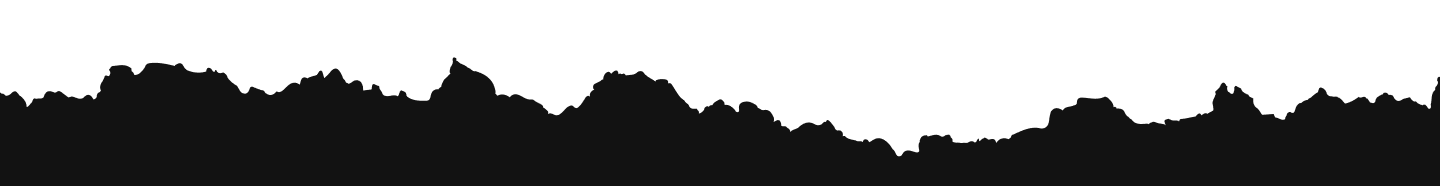
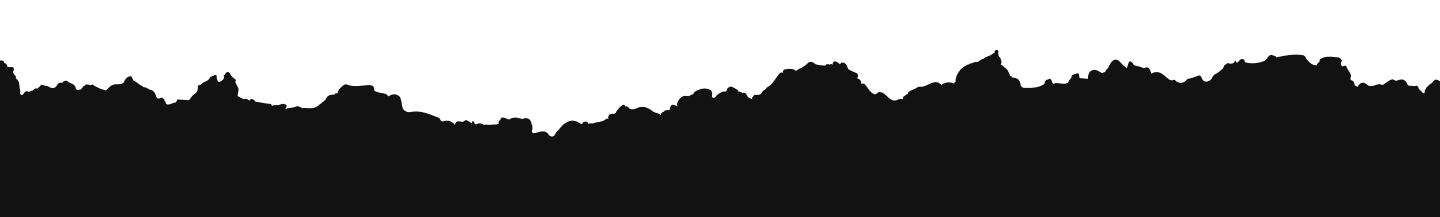
add HeroSectionPromotion

Changed region(s): [[0.0, 0.2419, 1.0, 0.8333]]

diff --git a/src/components/HeroSectionPromotion.tsx b/src/components/HeroSectionPromotion.tsx
@@ -1,0 +1,192 @@
+"use client";
+
+import Image from "next/image";
+
+export default function HeroSectionPromotion() {
+  return (
+    <div className="relative w-full h-[600px] overflow-hidden">
+      <div className="absolute inset-0">
+        <Image
+          src="/images/hero2Bc.png"
+          alt="Background gradient"
+          width={1200}
+          height={600}
+          className="w-full h-full object-cover"
+          priority
+        />
+      </div>
+
+      <div className="absolute bottom-0 left-0 right-0">
+        <Image
+          src="/images/hero2people.png"
+          alt="People base"
+          width={1200}
+          height={400}
+          className="w-full h-[300px] sm:h-[350px] md:h-[400px] object-cover"
+        />
+      </div>
+
+      <div className="absolute bottom-0 left-0 right-0 flex justify-between items-end px-2 sm:px-4 md:px-8 lg:px-16">
+        <div className="flex-shrink-0 w-[140px] sm:w-auto">
+          <Image
+            src="/images/person2.png"
+            alt="Person 2"
+            width={300}
+            height={400}
+            className="w-full h-[200px] sm:h-[250px] md:h-[350px] lg:h-[400px] object-contain"
+          />
+        </div>
+        <div className="flex-shrink-0 w-[140px] sm:w-auto">
+          <Image
+            src="/images/person1.png"
+            alt="Person 1"
+            width={300}
+            height={400}
+            className="w-full h-[200px] sm:h-[250px] md:h-[350px] lg:h-[400px] object-contain"
+          />
+        </div>
+      </div>
+      {/* Mobile Content */}
+      <div className="absolute inset-0 flex items-start justify-center pt-32 z-10 px-2 md:hidden">
+        <div
+          className="text-center text-white flex items-center gap-2 w-full"
+          style={{ transform: "rotate(-3.7deg)" }}
+        >
+          <Image
+            src="/icons/twitch.png"
+            alt="Twitch"
+            width={60}
+            height={60}
+            className="w-[100px] h-[70px] object-contain flex-shrink-0"
+          />
+
+          <div
+            className="w-[1px] h-[50px]"
+            style={{ backgroundColor: "rgba(59, 59, 59, 1)" }}
+          ></div>
+
+          <div className="text-center flex-1 min-w-0">
+            <h2
+              className="font-light leading-[89%] mb-2"
+              style={{
+                fontFamily:
+                  '"Saira Condensed", var(--font-saira), ui-sans-serif, system-ui, -apple-system, "Segoe UI"',
+                fontWeight: "300",
+                fontSize: "32px",
+                letterSpacing: "0%",
+                textAlign: "center",
+              }}
+            >
+              HER HAFTA
+            </h2>
+            <h3
+              className="font-bold leading-[89%]"
+              style={{
+                fontFamily:
+                  '"Saira Condensed", var(--font-saira), ui-sans-serif, system-ui, -apple-system, "Segoe UI"',
+                fontWeight: "700",
+                fontSize: "32px",
+                letterSpacing: "0%",
+                textAlign: "center",
+                color: "rgba(240, 231, 77, 1)",
+              }}
+            >
+              CANLIDAYIZ!
+            </h3>
+            <p
+              className="font-bold leading-[104%] mt-4"
+              style={{
+                fontFamily:
+                  'var(--font-saira), ui-sans-serif, system-ui, -apple-system, "Segoe UI"',
+                fontWeight: "700",
+                fontSize: "10px",
+                letterSpacing: "1.5%",
+                textAlign: "left",
+              }}
+            >
+              Bizi Takip Edin!
+            </p>
+          </div>
+        </div>
+      </div>
+
+      {/* Web Content */}
+      <div className="absolute inset-0 flex items-start justify-center pt-16 z-10 hidden md:flex">
+        <div
+          className="text-center text-white flex items-center gap-4"
+          style={{ transform: "rotate(-3.7deg)" }}
+        >
+          <Image
+            src="/icons/twitch.png"
+            alt="Twitch"
+            width={60}
+            height={60}
+            className="w-[158px] h-[98px] object-contain"
+          />
+
+          <div
+            className="w-[1px] h-[80px]"
+            style={{ backgroundColor: "rgba(59, 59, 59, 1)" }}
+          ></div>
+
+          <div className="text-center">
+            <h2
+              className="font-light leading-[89%] mb-2"
+              style={{
+                fontFamily:
+                  '"Saira Condensed", var(--font-saira), ui-sans-serif, system-ui, -apple-system, "Segoe UI"',
+                fontWeight: "300",
+                fontSize: "68.24px",
+                letterSpacing: "0%",
+                textAlign: "center",
+              }}
+            >
+              HER HAFTA
+            </h2>
+            <h3
+              className="font-bold leading-[89%]"
+              style={{
+                fontFamily:
+                  '"Saira Condensed", var(--font-saira), ui-sans-serif, system-ui, -apple-system, "Segoe UI"',
+                fontWeight: "700",
+                fontSize: "68.24px",
+                letterSpacing: "0%",
+                textAlign: "center",
+                color: "rgba(240, 231, 77, 1)",
+              }}
+            >
+              CANLIDAYIZ!
+            </h3>
+            <p
+              className="font-bold leading-[104%] mt-4"
+              style={{
+                fontFamily:
+                  'var(--font-saira), ui-sans-serif, system-ui, -apple-system, "Segoe UI"',
+                fontWeight: "700",
+                fontSize: "16px",
+                letterSpacing: "1.5%",
+                textAlign: "left",
+              }}
+            >
+              Bizi Takip Edin!
+            </p>
+          </div>
+        </div>
+      </div>
+      <div className="absolute bottom-0 left-0 right-0 pointer-events-none z-20 h-20">
+        <Image
+          src="/images/vektor.png"
+          alt="Vector frame"
+          width={1200}
+          height={80}
+          className="w-full h-full object-cover"
+          style={{
+            filter:
+              "hue-rotate(0deg) saturate(0%) brightness(0%) contrast(1000%)",
+            opacity: 1,
+          }}
+        />
+      </div>
+    </div>
+  );
+}

diff --git a/src/app/page.tsx b/src/app/page.tsx
@@ -1,10 +1,12 @@
 import HeroSection from "@/components/HeroSection";
+import HeroSectionPromotion from "@/components/HeroSectionPromotion";
 
 export default function Home() {
   return (
     <div>
       <div>
         <HeroSection />
+        <HeroSectionPromotion/>
       </div>
     </div>
   );
